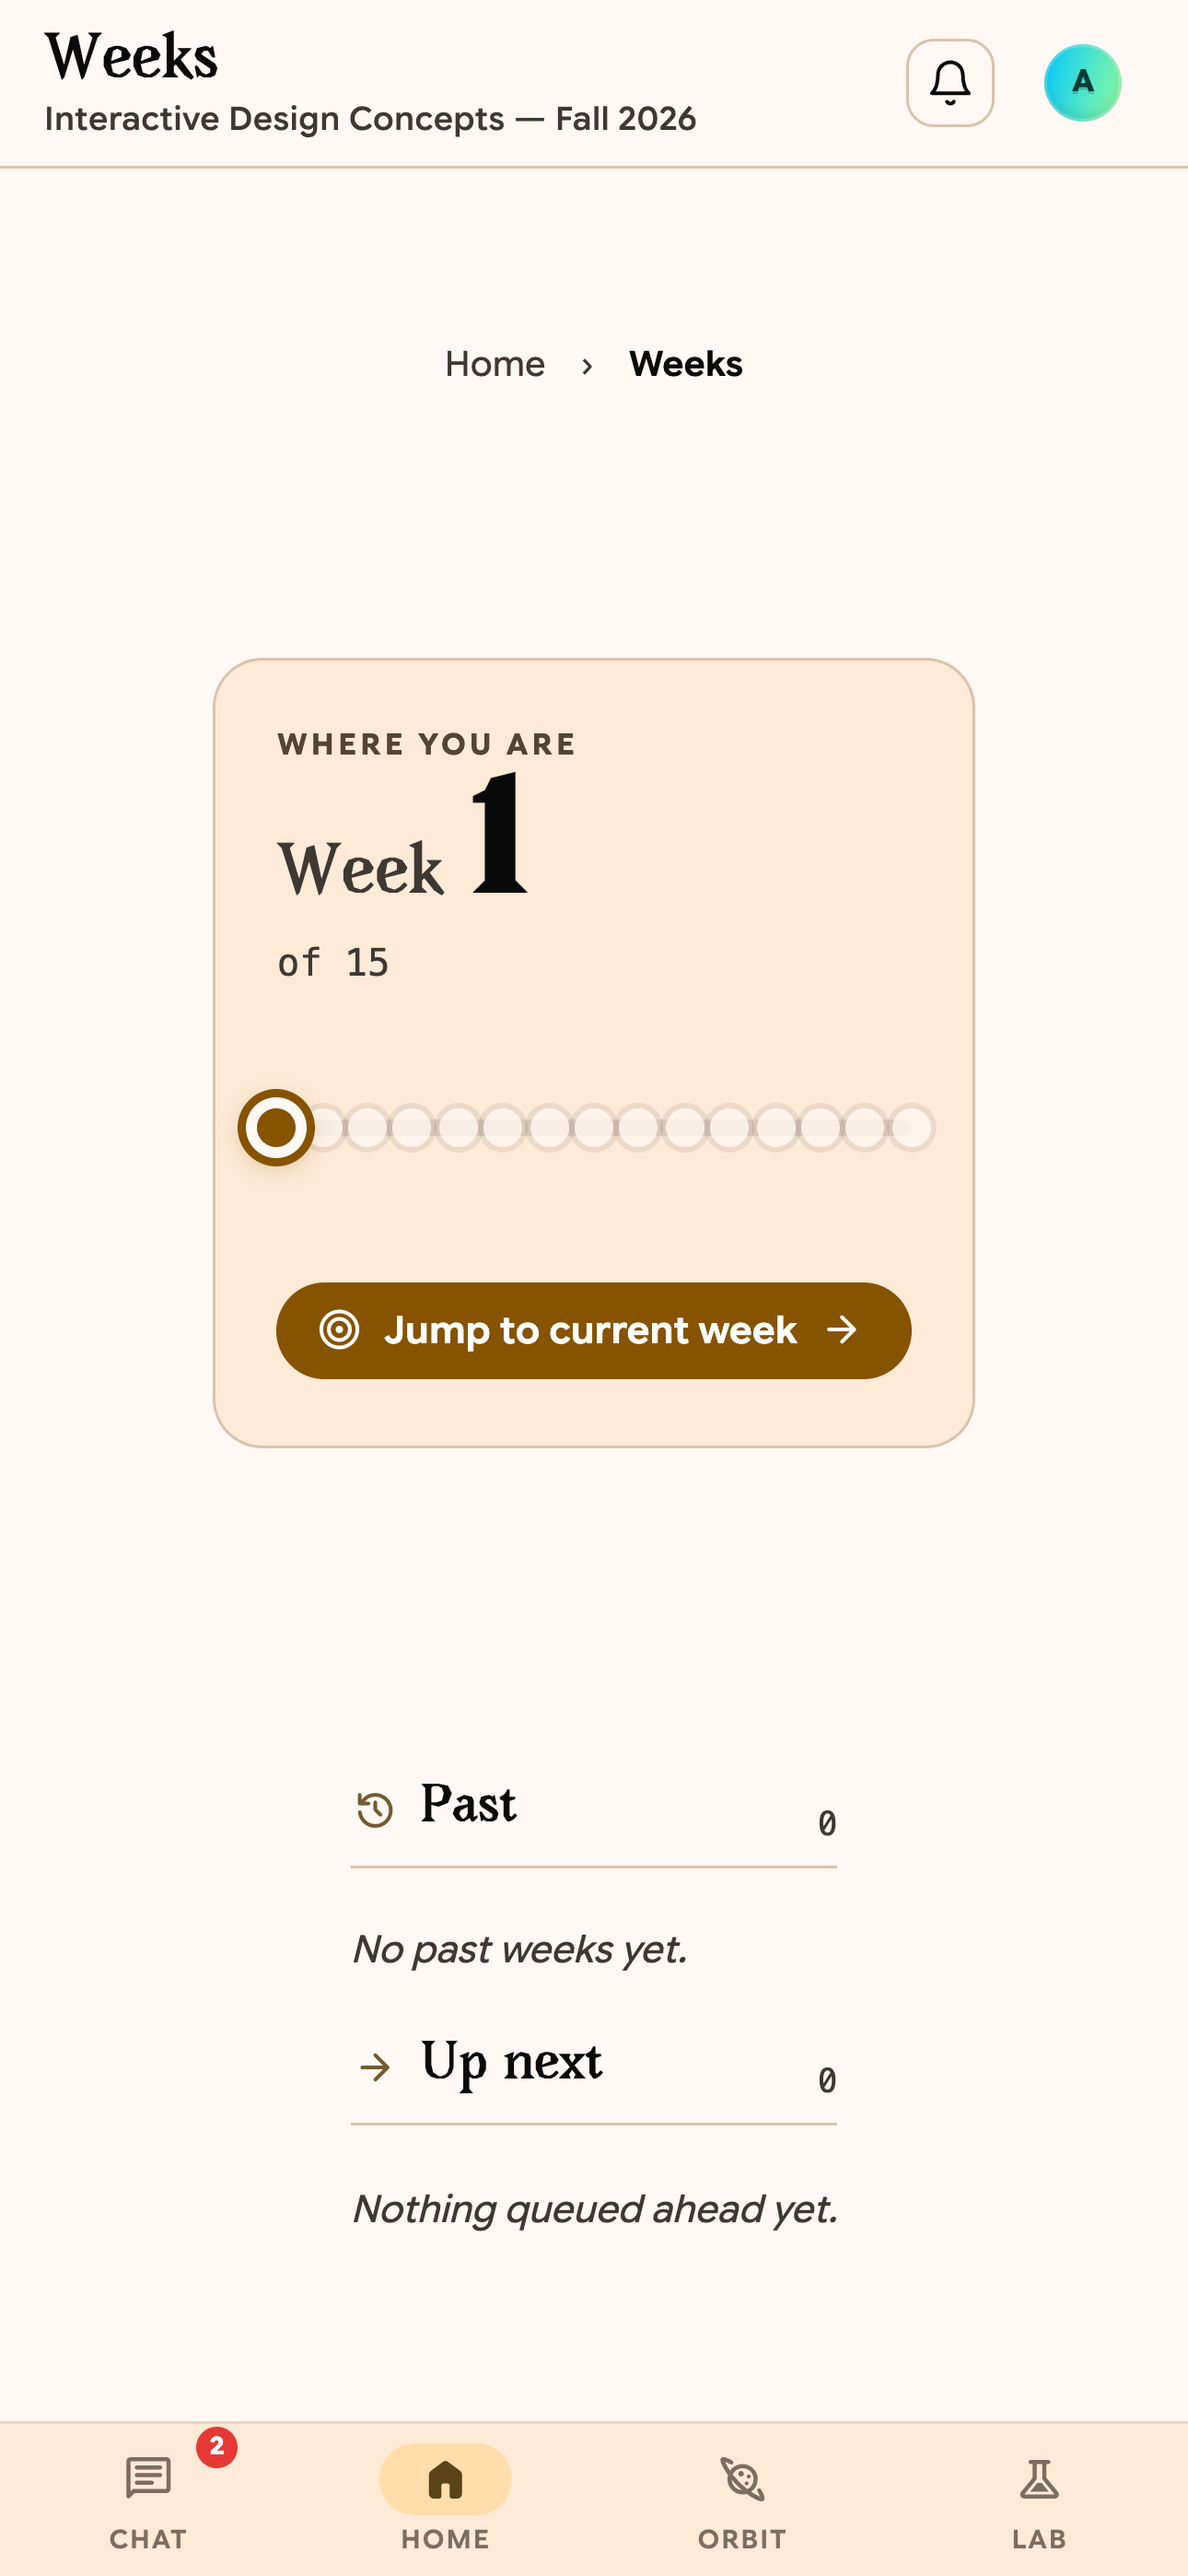
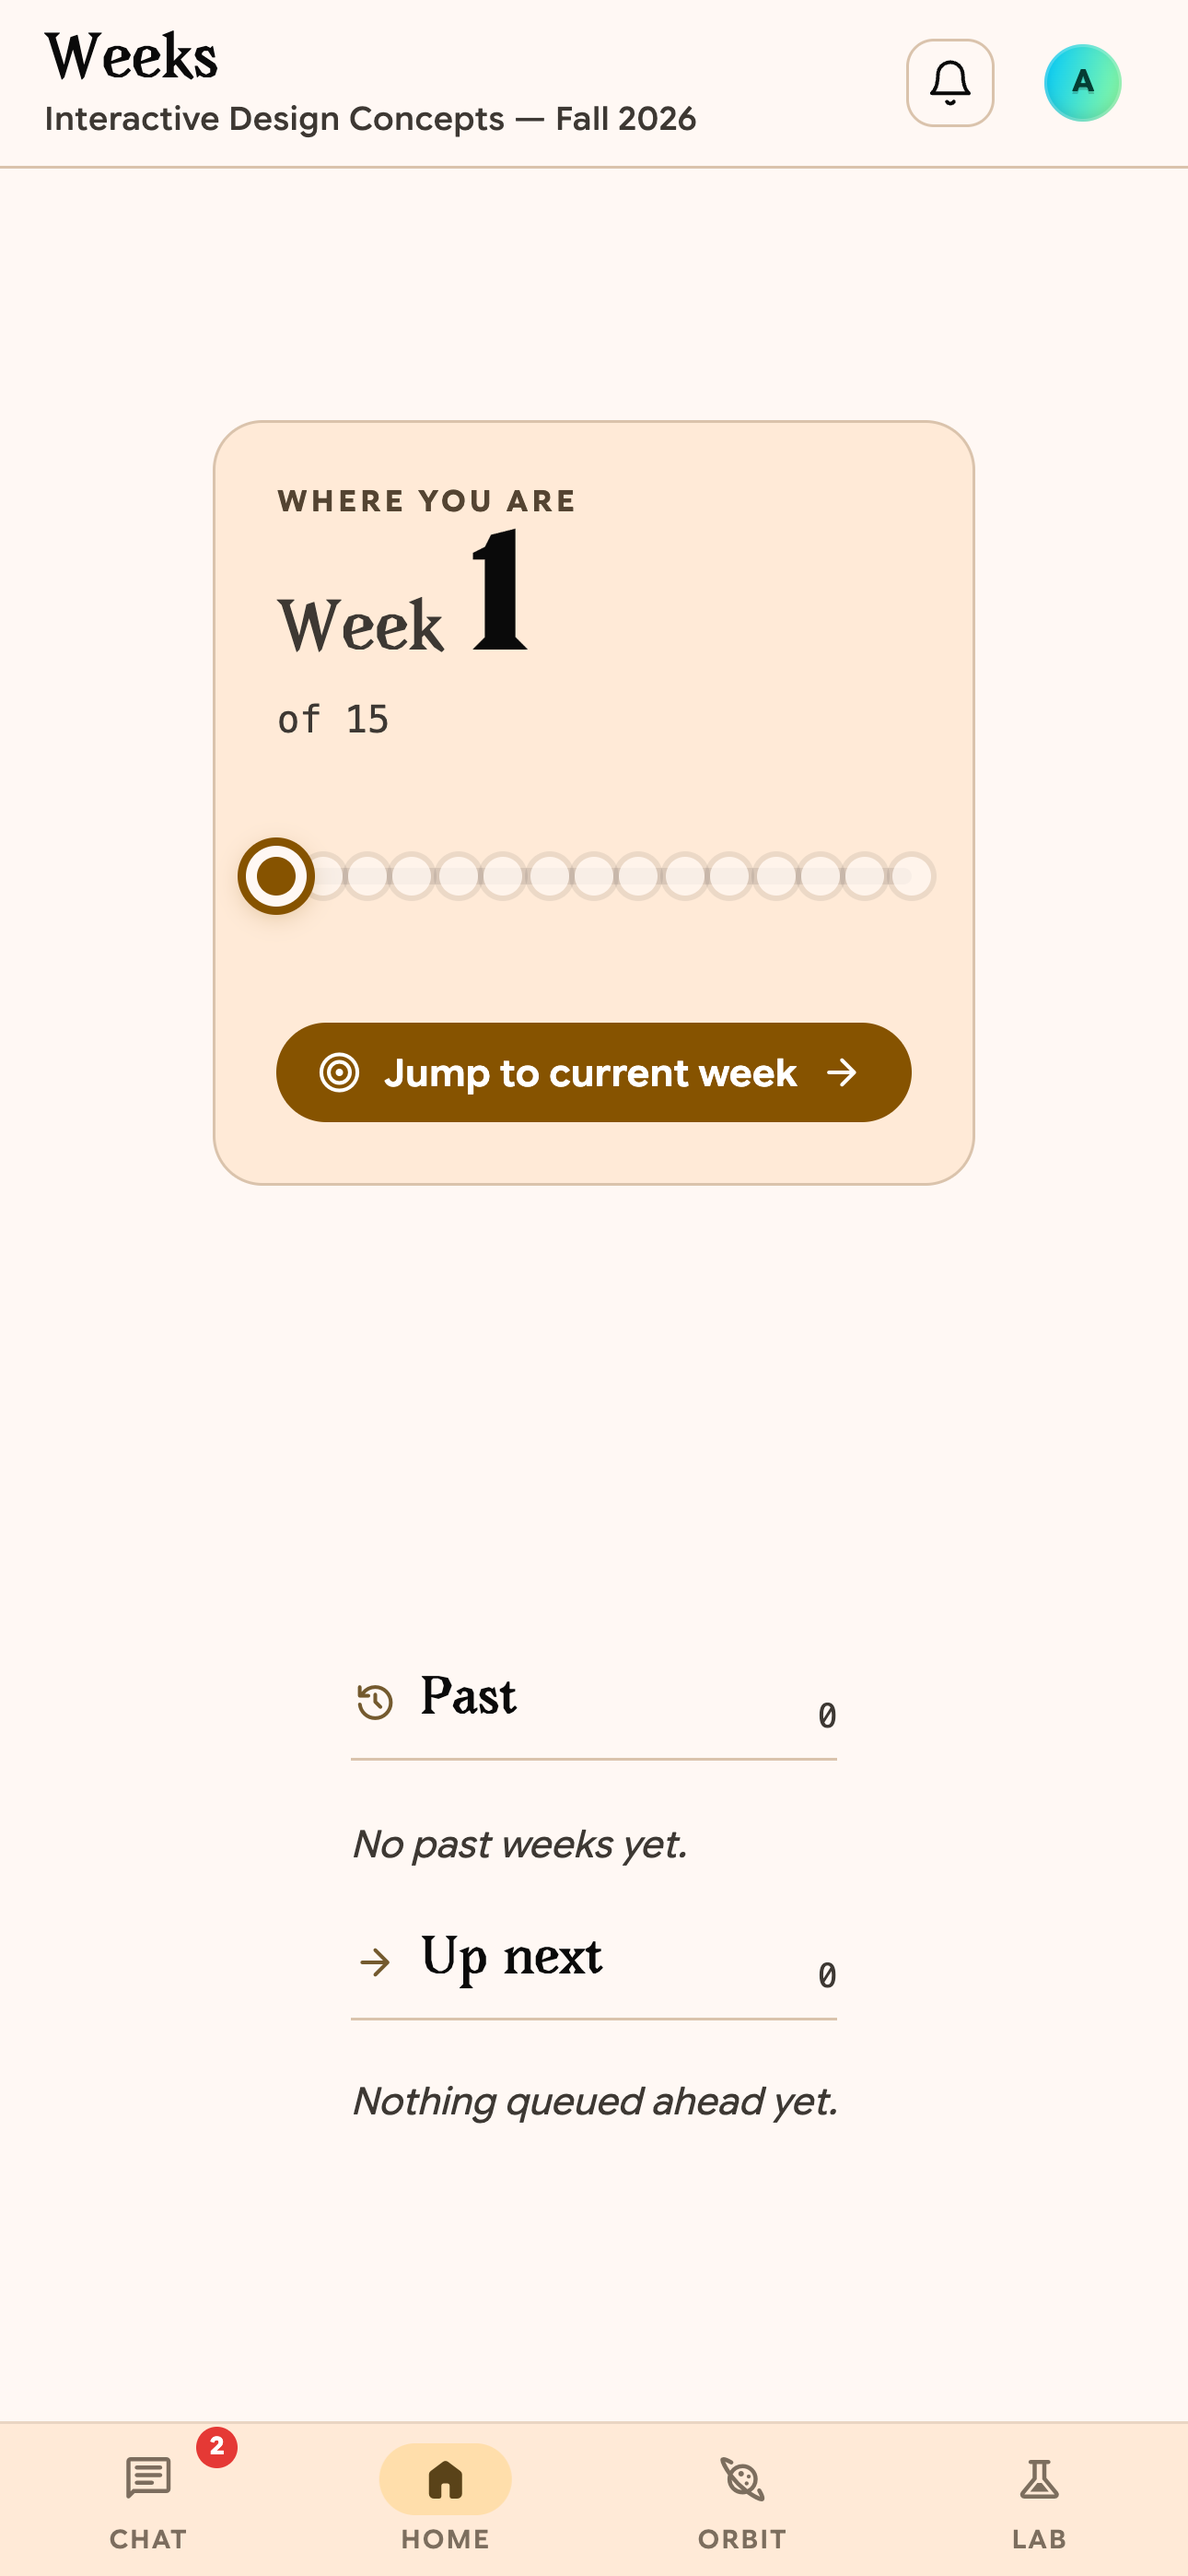
Orbit + Weeks polish
- Orbit: centre the section headings on mobile (Roadmap now lines up with
  Syllabus/Files down the middle instead of hanging left), and tighten the
  Roadmap→Syllabus divider gap.
- Weeks: trim the mobile whitespace — hide the redundant breadcrumb (the header
  already says "Weeks"), reduce top padding, breadcrumb/hero margins, and hero
  internal gaps so the card sits higher and reads tighter.

Changed region(s): [[0.155, 0.1245, 0.8372, 0.5601], [0.2791, 0.6534, 0.7132, 0.8712], [0.6822, 0.6534, 0.7132, 0.6845]]

diff --git a/src/routes/app/weeks/+page.svelte b/src/routes/app/weeks/+page.svelte
@@ -273,7 +273,7 @@
 		gap: 0.4rem;
 		font-size: 0.78rem;
 		color: var(--muted-fg);
-		margin-bottom: 1rem;
+		margin-bottom: 0.6rem;
 	}
 	.crumb {
 		color: var(--muted-fg);
@@ -293,10 +293,10 @@
 		border: 1px solid var(--md-sys-color-outline-variant, var(--border));
 		border-radius: 24px;
 		padding: 2.2rem 2.4rem;
-		margin-bottom: 2.5rem;
+		margin-bottom: 1.75rem;
 		display: flex;
 		flex-direction: column;
-		gap: 1.75rem;
+		gap: 1.5rem;
 	}
 
 	/* "Where you are" block */
@@ -710,18 +710,23 @@
 	/* ── Responsive ───────────────────────────── */
 	@media (max-width: 800px) {
 		.weeks-page {
-			padding: calc(1.25rem + var(--header-h, 52px)) 1rem;
+			padding: calc(0.75rem + var(--header-h, 52px)) 1rem;
 			padding-bottom: calc(56px + env(safe-area-inset-bottom, 0px) + 1.25rem);
 		}
+		/* Redundant on a phone — the header already says "Weeks" and the bottom
+		   nav has Home. Dropping it pulls the card up and kills the top gap. */
+		.crumbs { display: none; }
 		/* Keep the clean STACKED card on mobile — eyebrow → big Week N →
 		   horizontal rail → CTA. (The old design flipped to a row with the
 		   rail pinned to the far-right edge and the button floated absolutely
 		   at the bottom, which left an awkward gap and read wonky.) */
 		.hero {
-			padding: 1.5rem 1.4rem;
+			padding: 1.4rem 1.4rem;
 			border-radius: 18px;
-			gap: 1.35rem;
+			gap: 1.2rem;
+			margin-bottom: 1.25rem;
 		}
+		.cols { margin-top: 0; }
 		.hero-week-num { font-size: 3.4rem; }
 		.hero-now-link { margin-top: 0.25rem; align-self: flex-start; }
 		.cols { grid-template-columns: 1fr; gap: 1rem; }

diff --git a/src/routes/app/orbit/+page.svelte b/src/routes/app/orbit/+page.svelte
@@ -424,8 +424,8 @@
 
 	/* ── Divider between Roadmap and Files ── */
 	.files-divider {
-		border-top: 2px solid var(--border);
-		margin: 2.5rem 0;
+		border-top: 1.5px solid var(--border);
+		margin: 1.75rem 0;
 	}
 
 	/* ── Create form ── */
@@ -767,8 +767,9 @@
 
 	@media (max-width: 600px) {
 		/* Stack the header so the button gets its own full-width line instead of
-		   crowding the "Roadmap" title. */
-		.page-header { flex-direction: column; align-items: stretch; gap: 0.7rem; }
+		   crowding the "Roadmap" title, and centre the section headings so
+		   Roadmap / Syllabus / Files all line up down the middle. */
+		.page-header { flex-direction: column; align-items: center; gap: 0.7rem; text-align: center; }
 		.page-header .btn-secondary { width: 100%; }
 		.roadmap-link {
 			grid-template-columns: 56px 1fr;
